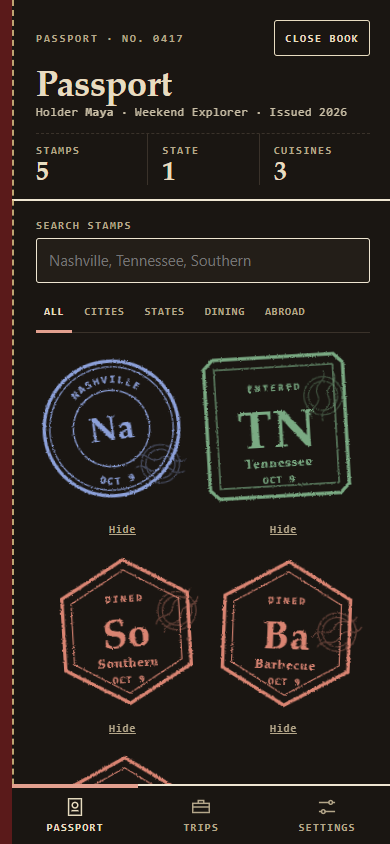
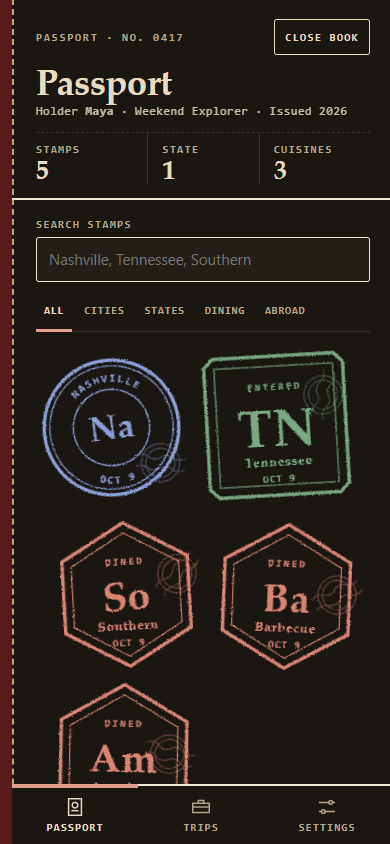
Add Pages deployment workflow, screenshot script, refreshed screenshots and an honest security/transparency README

diff --git a/eslint.config.js b/eslint.config.js
@@ -12,5 +12,5 @@ module.exports = [
     rules: { "no-redeclare": ["error", { builtinGlobals: false }], "no-unused-vars": ["error", { vars: "local", caughtErrors: "none" }] } },
   { files: ["sw.js"], languageOptions: { sourceType: "script", globals: globals.serviceworker } },
   { files: ["server.js", "server.test.js", "eslint.config.js", "tests/unit/*.js"], languageOptions: { sourceType: "commonjs", globals: globals.node } },
-  { files: ["tests/ui/*.mjs"], languageOptions: { sourceType: "module", globals: { ...globals.node, ...globals.browser } } },
+  { files: ["tests/ui/*.mjs", "scripts/*.mjs"], languageOptions: { sourceType: "module", globals: { ...globals.node, ...globals.browser } } },
 ];

diff --git a/README.md b/README.md
@@ -1,6 +1,6 @@
 # Passport stamp book
 
-**A product concept, built end to end:** a stamp-book for everyday trips and meals, styled as a physical passport. It started as a product requirements document and became a working prototype, with a mock backend and 76 automated tests.
+**A product concept, built end to end:** a stamp-book for everyday trips and meals, styled as a physical passport. It started as a product requirements document and became a working prototype, with a mock backend and 100 automated tests plus a lint check.
 
 > Independent portfolio concept. Fake data only. It is **not affiliated with, or endorsed by, any card issuer**, uses no issuer branding, and contains no real customer data.
 
@@ -29,7 +29,12 @@ Digital travel stamps exist, but they reward only international trips. People wh
 - **Offline mode**: cached snapshot, paused changes, queued edits that sync on reconnect, all surviving a reload.
 - **Mock backend**: sign-in, a transaction feed per persona and server-side preferences.
 - **Night mode**, reduced-motion support, keyboard and screen-reader support.
-- **Demo controls** (bottom of each screen): switch between four personas, go offline, refund or dispute a purchase and watch the stamps react.
+- **Collection goals** (3 and 5 states, 5 cities, 5 cuisines, first country) with progress bars and a seal when finished.
+- **Privacy centre**: export your data (no amounts, no merchant names) or delete it, with a two-step confirmation.
+- **Notification preferences** with previews of the exact message. Off until chosen. The prototype sends nothing.
+- **Hide a place from a recap**; it also leaves the share image.
+- **Installable and offline**: web manifest and a service worker that caches only the static shell, never the API.
+- **Prototype tools** (bottom of Settings, collapsed; add `?demo=1` to the address to show them on every tab): switch between four travellers, go offline, refund or dispute a purchase and watch the stamps react.
 
 ## Run it
 
@@ -43,15 +48,17 @@ npm start                       # http://localhost:3000
 HOST=0.0.0.0 npm start          # to try it from your phone on the same Wi-Fi
 ```
 
-On first open, tap the cover, walk through onboarding, then try **Demo controls → Simulate card activity**.
+On first open, tap the cover, walk through onboarding, then open **Settings → Prototype tools → Pretend a purchase changed**.
 
 ## Tests
 
 ```bash
-npm test            # 39 unit + API tests (Node built-in runner, no dependencies)
+npm test            # unit + API tests (Node built-in runner, no dependencies)
+npm run lint        # ESLint
 npm install         # once, for the browser tests
 npm run test:ui     # browser tests (Puppeteer) incl. an axe accessibility audit
 npm run test:layout # text-fit audit at six widths, light and night
+npm run screenshots # regenerate the images in docs/
 ```
 
 | Suite | What it covers |
@@ -69,19 +76,51 @@ Set `CHROME_PATH` if Chrome or Edge is not in a default location.
 ## How it is built
 
 ```
-index.html            shell
+index.html            shell (carries the Content-Security-Policy)
+sw.js, manifest.webmanifest, icon.svg   offline support and install
 css/                  tokens (palette, type), book (layout, cover, ticket), stamps
 js/rules.js           pure product rules; also loaded by Node for unit tests
 js/stamps-art.js      SVG stamps, crest, barcode; canvas share image
 js/store.js           state, localStorage, API sync
 js/views.js           render functions (every dynamic value is escaped)
 js/main.js            boot and event handling
+js/config.js          deployment switch (static mode for hosts with no backend)
+js/boot.js            service worker registration
 server.js             zero-dependency mock API (sessions, validation, limits)
 tests/                unit and browser tests
 docs/                 PRD, design decisions, screenshots
 ```
 
 Vanilla JavaScript with classic scripts, so it also works from `file://`. No framework, no bundler, no runtime dependencies.
+
+## Live demo and deployment
+
+A static copy of the app (built-in fake data, no sign-in, no backend) can be published with GitHub Pages: `.github/workflows/pages.yml` lints, tests and publishes only the front-end files, and switches `js/config.js` to static mode. In the repository settings choose **Pages → Source: GitHub Actions**. The mock backend (`npm start`) is for local use only and is not deployed.
+
+## Security and transparency
+
+What is in place:
+- **No runtime dependencies** and `npm audit` reports 0 vulnerabilities. The only dev dependencies are ESLint, Puppeteer and axe-core.
+- **Strict Content-Security-Policy** (no inline scripts, no `eval`, no remote origins, no plugins, framing denied) sent as a header by the server and also embedded in the page for static hosts. A browser test proves an injected script and an injected inline event handler do not run.
+- Every dynamic value is HTML-escaped before it reaches the page; saved browser state is type-checked on load.
+- The server sends `nosniff`, `no-referrer`, `X-Frame-Options: DENY`, `Permissions-Policy` and `COOP` on every response, serves only an allowlist of static files (path traversal is tested), caps request sizes and sessions, compares credentials in constant time, and listens on localhost unless you set `HOST`.
+- The service worker never caches `/api` and only deletes its own caches.
+- Shared recap images and data exports never contain amounts or card details; restaurant names are opt-in.
+- No secrets, API keys, personal data or real customer data are in the repository. All data is fake.
+
+What is not, stated plainly:
+- **The backend is a mock.** One public demo login (`demo` / `demo`), in-memory sessions, no rate limiting on sign-in, no HTTPS. Do not expose it to the internet or put real data in it. Setting `HOST=0.0.0.0` makes it reachable by anyone on your network.
+- The sign-in token is kept in `localStorage`, so a successful script injection (which the CSP is there to prevent) could read it. A real product would use an HttpOnly cookie.
+- The CSP allows inline *styles* (the views set a few style attributes). Scripts are strictly self-only.
+- The Pages workflow uses GitHub's own actions pinned to major versions, not to commit hashes.
+- Not tested on a real phone or with a real screen reader (see Known limits). Automated checks cover part of accessibility only.
+- A security review by an independent AI tool (OpenAI Codex) was run on the code before publishing; its findings and what was done about them are in [docs/SECURITY-REVIEW.md](docs/SECURITY-REVIEW.md). That is not a substitute for a human audit.
+
+To report a problem, open an issue (this is a portfolio prototype, with no bounty or SLA).
+
+## How this was made
+
+Built by the repository owner working with AI coding tools: Claude Code wrote and revised most of the code and tests, and OpenAI Codex was used as a second reviewer. Commits made with Claude carry a `Co-Authored-By` line. The product thinking in [docs/PRD.md](docs/PRD.md) is the owner's; every number in it that is not cited is marked as an assumption.
 
 ## Design
 
@@ -92,6 +131,8 @@ The app is a passport book rather than a dashboard: cover, ruled pages, ink-bled
 - **Not tested on a real phone or with a real screen reader.** The share sheet path is covered by a mocked test, and accessibility by automated audits, which catch only part of the problems.
 - The backend is a mock: one demo login, in-memory sessions, fake data. A real build would use real authentication, a card-transaction feed and rate limiting.
 - Trip detection is a simple rule (a gap of more than two days between away-from-home purchases). It does not yet merge multi-city itineraries or use destination changes.
+- Notification settings are saved on the device only and no notification is ever sent.
+- There is no share image for a single stamp yet (see the roadmap).
 - Stamps are app-only. The PRD discusses, and defers, putting any stamp on a blockchain.
 
 ## License
